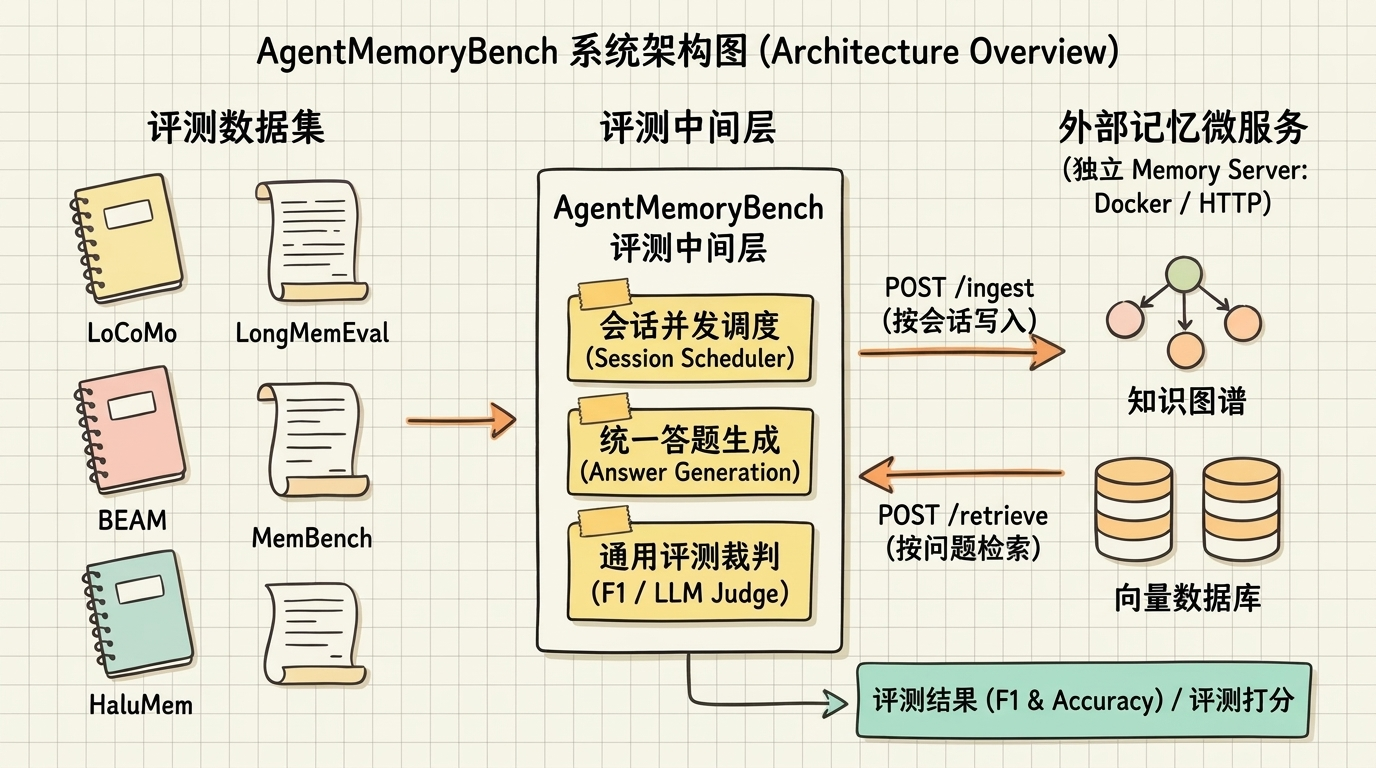
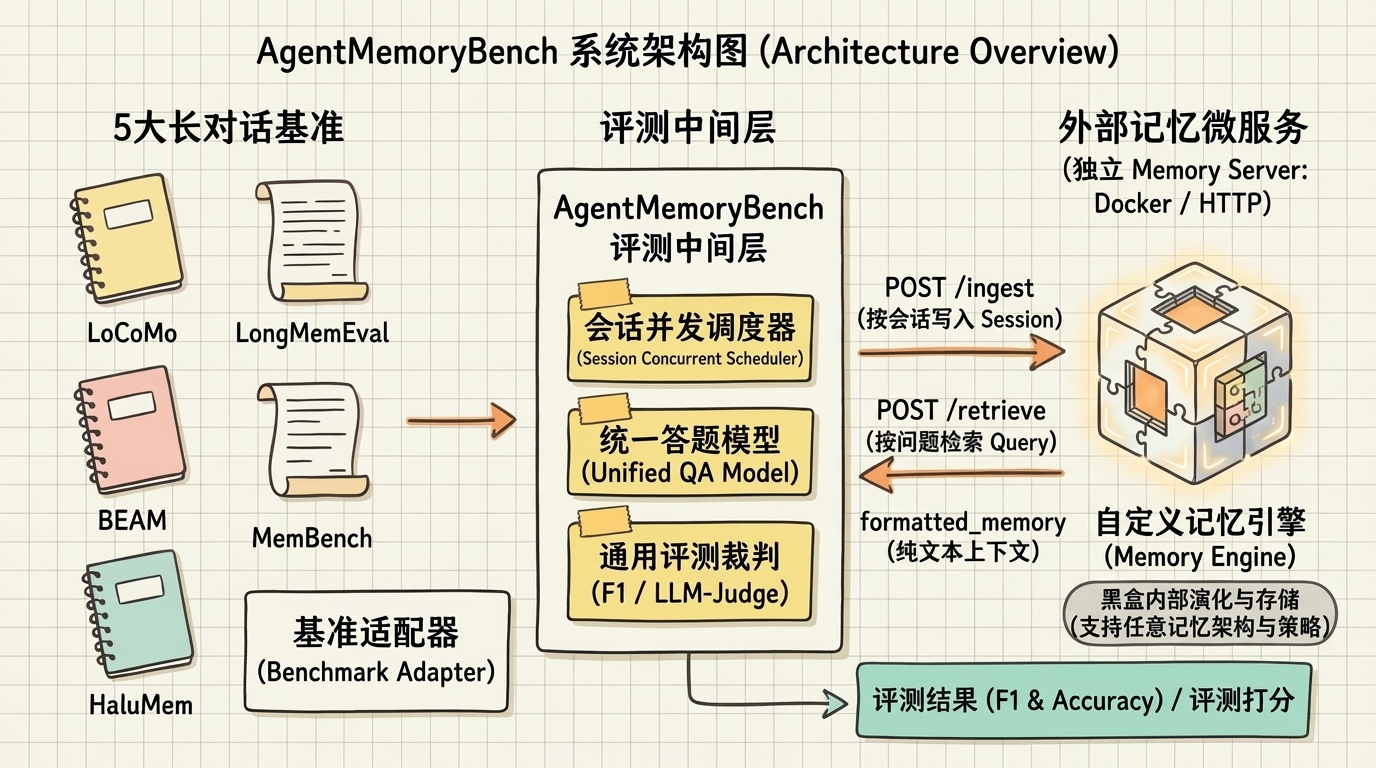
docs(architecture): remove squished mermaid and generalize memory server black-box

diff --git a/README.md b/README.md
@@ -13,33 +13,9 @@
 
 系统在逻辑上划分为三个彻底解耦的层次：
 
-```mermaid
-flowchart LR
-    subgraph Data["1. 评测基准数据层"]
-        B["5 大长对话基准<br/>(LoCoMo / LongMemEval /<br/>BEAM / MemBench / HaluMem)"]
-        AD["基准适配器<br/>(解析为统一实体并过滤 6 类题型)"]
-        B --> AD
-    end
-
-    subgraph Bench["2. AgentMemoryBench 评测中间层"]
-        SCHED["会话级并发调度器<br/>(ThreadPoolExecutor)"]
-        READER["统一回答生成器<br/>(Prompt 安全注入 + Answer LLM)"]
-        EVAL["通用评测器<br/>(ExactMatch / F1 / LLM-Judge)"]
-        SCHED --> READER --> EVAL
-    end
-
-    subgraph Server["3. 独立 Memory Server (被测系统)"]
-        INGEST["POST /ingest<br/>(按 Session 写入记忆)"]
-        RETRIEVE["POST /retrieve<br/>(按 Query 检索记忆)"]
-        STORE["内部存储与演化<br/>(向量库 / 知识图谱 / 离线更新)"]
-        INGEST --> STORE --> RETRIEVE
-    end
-
-    AD -->|"加载会话与考题"| SCHED
-    SCHED -->|"1. 写入 Session"| INGEST
-    SCHED -->|"2. 检索 Query"| RETRIEVE
-    RETRIEVE -->|"返回 formatted_memory"| READER
-```
+1. **评测基准数据层 (Data & Benchmark Layer)**：覆盖 LoCoMo、LongMemEval、BEAM、MemBench 与 HaluMem 五大长对话评测基准。通过适配器统一加载为 `Conversation`、`Session`、`Turn` 与 `Question` 标准实体，并自动收敛至 6 类核心能力图谱。
+2. **AgentMemoryBench 评测中间层 (Middleware Engine)**：作为评测主控客户端，调度会话级并发写入与检索；检索完成后，将服务端返回的文本上下文安全注入统一 Prompt 模板，调用 Answer LLM 生成作答，并经由标准评测器（`ExactMatch` / `F1` / `LLMJudge`）进行客观与语义打分。
+3. **独立 Memory Server 被测服务层 (Isolated Memory Service)**：被测记忆系统作为独立 HTTP 微服务或 Docker 容器运行。评测端视其为**完全黑盒**，仅通过 `POST /ingest`（会话级写入）与 `POST /retrieve`（问题级检索）两个标准端点通信。记忆系统内部采用何种存储与演化策略（无论是向量检索、知识图谱、分层递归摘要、键值索引还是混合架构），评测端均不作任何假设与侵入。
 
 ---
 
